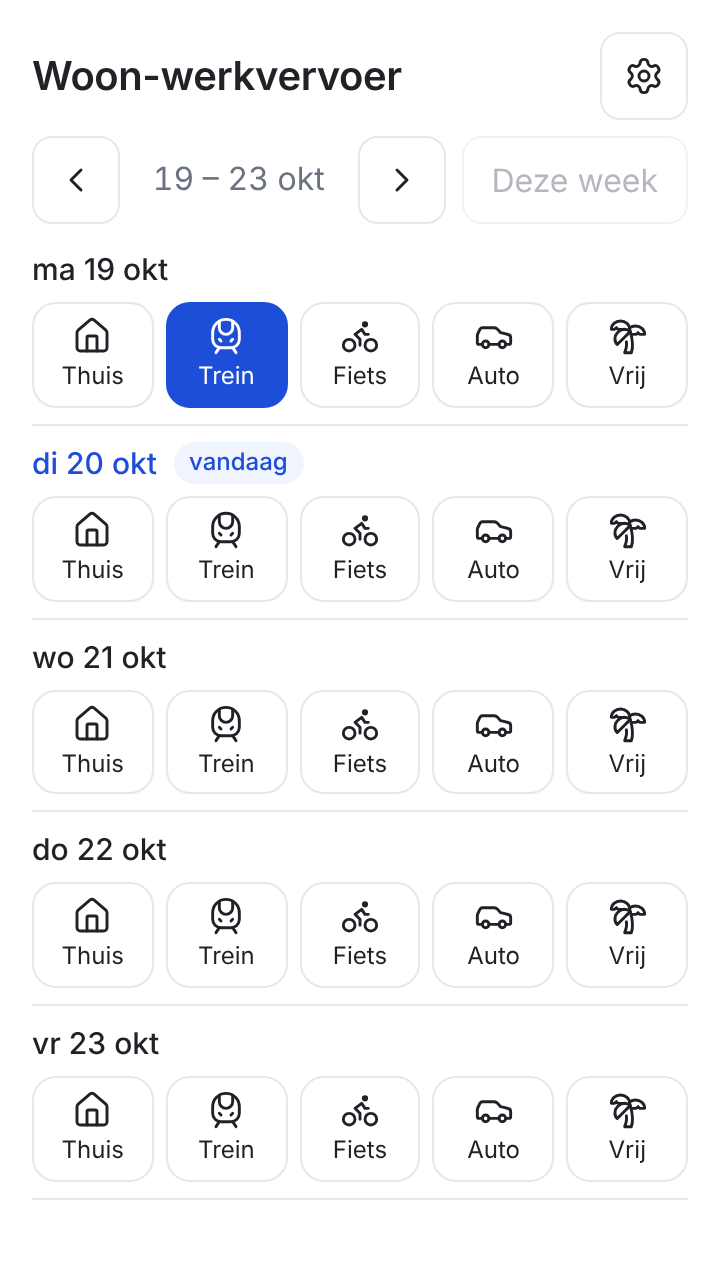
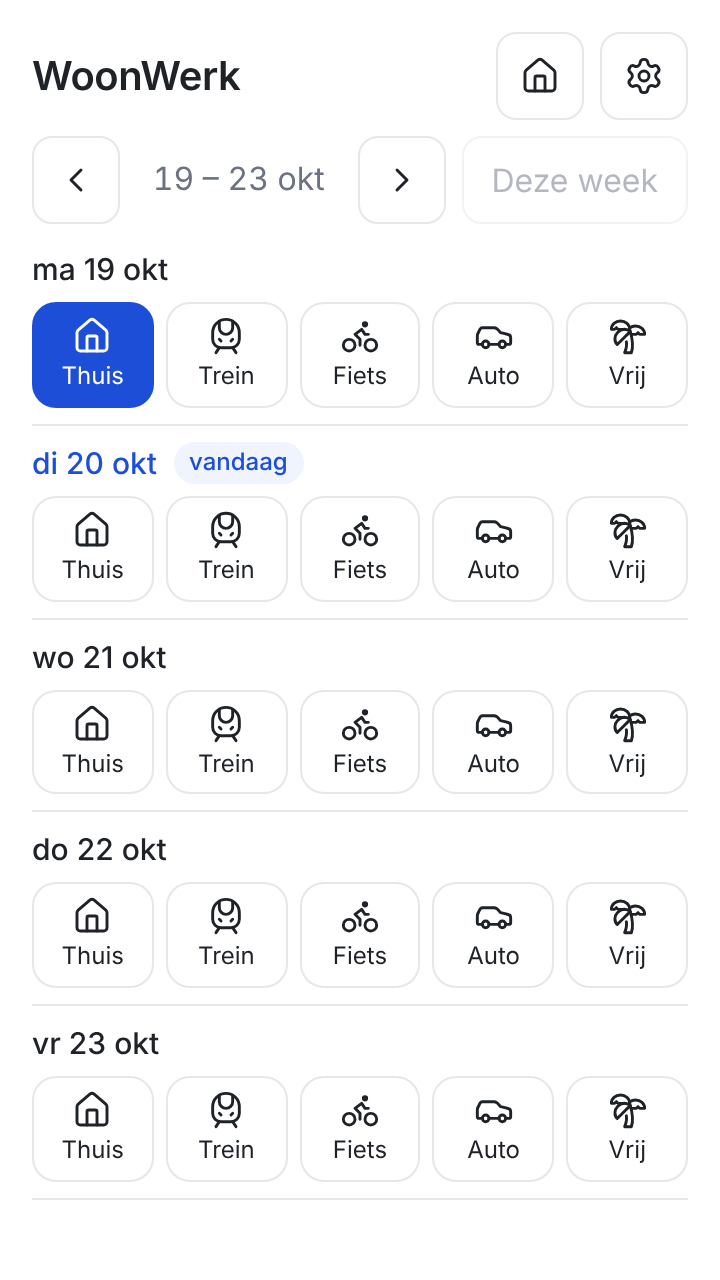
Overzicht thuiswerkvergoeding (SPEC v1.2)
Nieuwe knop met het thuis-icoon opent een overzicht van alle thuisdagen
van precies 3 maanden geleden tot en met vandaag, per kalendermaand in
een eigen kolom (AC20).

Claude-Session: https://claude.ai/code/session_01HkgF8UVQLVV5ARiTjKdSa4

Changed region(s): [[0.0306, 0.2188, 0.3972, 0.3438], [0.1833, 0.0312, 0.55, 0.0938], [0.7333, 0.0312, 0.7944, 0.0938]]

diff --git a/src/HomeOffice.test.tsx b/src/HomeOffice.test.tsx
@@ -1,0 +1,76 @@
+import { render, screen, within } from '@testing-library/react'
+import userEvent from '@testing-library/user-event'
+import { afterEach, beforeEach, describe, expect, it, vi } from 'vitest'
+import App from './App'
+import { STORAGE_KEY } from './storage'
+
+// "Vandaag" is dinsdag 20 oktober 2026.
+beforeEach(() => {
+  vi.useFakeTimers({ toFake: ['Date'] })
+  vi.setSystemTime(new Date(2026, 9, 20, 9, 0))
+})
+
+afterEach(() => {
+  vi.useRealTimers()
+})
+
+function column(month: string) {
+  return within(screen.getByRole('region', { name: month }))
+}
+
+describe('AC20: overzicht thuiswerkvergoeding', () => {
+  it('toont de thuisdagen van 20 juli t/m vandaag, per maand in een eigen kolom', async () => {
+    localStorage.setItem(
+      STORAGE_KEY,
+      JSON.stringify({
+        '2026-07-17': 'thuis', // vóór de periode
+        '2026-07-20': 'thuis',
+        '2026-07-31': 'thuis',
+        '2026-08-03': 'thuis',
+        '2026-08-04': 'trein', // andere keuze
+        '2026-08-28': 'thuis',
+        '2026-10-01': 'thuis',
+        '2026-10-20': 'thuis', // vandaag
+        '2026-10-21': 'thuis', // na vandaag
+      }),
+    )
+    const user = userEvent.setup()
+    render(<App />)
+    await user.click(screen.getByRole('button', { name: 'Overzicht thuiswerkvergoeding' }))
+
+    expect(screen.getByRole('heading', { name: 'Overzicht thuiswerkvergoeding' })).toBeInTheDocument()
+    expect(screen.getByLabelText('Thuis')).toBeInTheDocument()
+    expect(screen.getByTestId('vanaf')).toHaveTextContent('20 juli 2026')
+    expect(screen.getByTestId('tot')).toHaveTextContent('20 oktober 2026')
+
+    expect(screen.getAllByRole('region').map((r) => r.getAttribute('aria-label'))).toEqual([
+      'juli',
+      'augustus',
+      'september',
+      'oktober',
+    ])
+    expect(column('juli').getAllByRole('listitem').map((li) => li.textContent)).toEqual(['ma 20', 'vr 31'])
+    expect(column('augustus').getAllByRole('listitem').map((li) => li.textContent)).toEqual(['ma 3', 'vr 28'])
+    expect(column('september').queryAllByRole('listitem')).toHaveLength(0)
+    expect(column('september').getByText('–')).toBeInTheDocument()
+    expect(column('oktober').getAllByRole('listitem').map((li) => li.textContent)).toEqual(['do 1', 'di 20'])
+  })
+
+  it('begint op de laatste dag van de maand als die dag niet bestaat', async () => {
+    vi.setSystemTime(new Date(2026, 4, 31, 9, 0)) // zondag 31 mei 2026
+    const user = userEvent.setup()
+    render(<App />)
+    await user.click(screen.getByRole('button', { name: 'Overzicht thuiswerkvergoeding' }))
+    expect(screen.getByTestId('vanaf')).toHaveTextContent('28 februari 2026')
+    expect(screen.getAllByRole('region')).toHaveLength(4)
+  })
+
+  it('gaat met Terug naar dezelfde week', async () => {
+    const user = userEvent.setup()
+    render(<App />)
+    await user.click(screen.getByRole('button', { name: 'Vorige week' }))
+    await user.click(screen.getByRole('button', { name: 'Overzicht thuiswerkvergoeding' }))
+    await user.click(screen.getByRole('button', { name: 'Terug' }))
+    expect(screen.getAllByRole('listitem')[0]).toHaveAccessibleName('maandag 12 oktober')
+  })
+})

diff --git a/src/App.tsx b/src/App.tsx
@@ -1,6 +1,7 @@
 import { useEffect, useRef, useState, type TouchEvent } from 'react'
 import { Bike, Car, ChevronLeft, ChevronRight, House, Settings as SettingsIcon, TrainFront, TreePalm, type LucideIcon } from 'lucide-react'
 import { dateKey, longLabel, mondayOf, shortLabel, addDays, weekLabel, workdays } from './dates'
+import HomeOffice from './HomeOffice'
 import Settings from './Settings'
 import { MODES, loadRegistrations, saveRegistrations, type Mode, type Registrations } from './storage'
 
@@ -19,7 +20,7 @@ export default function App() {
   const thisMonday = mondayOf(today)
   const [monday, setMonday] = useState(thisMonday)
   const [registrations, setRegistrations] = useState<Registrations>(loadRegistrations)
-  const [showSettings, setShowSettings] = useState(false)
+  const [screen, setScreen] = useState<'week' | 'settings' | 'thuis'>('week')
 
   useEffect(() => {
     saveRegistrations(registrations)
@@ -71,28 +72,42 @@ export default function App() {
     })
   }
 
-  if (showSettings) {
+  if (screen === 'settings') {
     return (
       <Settings
         registrations={registrations}
         onRestore={setRegistrations}
-        onClose={() => setShowSettings(false)}
+        onClose={() => setScreen('week')}
       />
     )
+  }
+
+  if (screen === 'thuis') {
+    return <HomeOffice registrations={registrations} today={today} onClose={() => setScreen('week')} />
   }
 
   return (
     <main className="app" onTouchStart={handleTouchStart} onTouchEnd={handleTouchEnd}>
       <header className="header">
         <h1>WoonWerk</h1>
-        <button
-          type="button"
-          className="icon-button settings-button"
-          aria-label="Instellingen en backup"
-          onClick={() => setShowSettings(true)}
-        >
-          <SettingsIcon size={20} strokeWidth={1.75} aria-hidden />
-        </button>
+        <div className="header-actions">
+          <button
+            type="button"
+            className="icon-button"
+            aria-label="Overzicht thuiswerkvergoeding"
+            onClick={() => setScreen('thuis')}
+          >
+            <House size={20} strokeWidth={1.75} aria-hidden />
+          </button>
+          <button
+            type="button"
+            className="icon-button"
+            aria-label="Instellingen en backup"
+            onClick={() => setScreen('settings')}
+          >
+            <SettingsIcon size={20} strokeWidth={1.75} aria-hidden />
+          </button>
+        </div>
         <nav className="week-nav" aria-label="Week kiezen">
           <button
             type="button"

diff --git a/src/HomeOffice.tsx b/src/HomeOffice.tsx
@@ -1,0 +1,65 @@
+import { ArrowLeft, House } from 'lucide-react'
+import { addDays, compactDay, dateKey, fullDate, monthName, overviewPeriod } from './dates'
+import type { Registrations } from './storage'
+
+interface Props {
+  registrations: Registrations
+  today: Date
+  onClose: () => void
+}
+
+export default function HomeOffice({ registrations, today, onClose }: Props) {
+  const { start, end, months } = overviewPeriod(today)
+
+  // Alle dagen in de periode met Thuis, gegroepeerd per kalendermaand.
+  const columns = months.map((month) => {
+    const days: Date[] = []
+    const first = month < start ? start : month
+    for (let d = first; d.getMonth() === month.getMonth() && d <= end; d = addDays(d, 1)) {
+      if (registrations[dateKey(d)] === 'thuis') days.push(d)
+    }
+    return { month, days }
+  })
+
+  return (
+    <main className="app">
+      <header className="settings-header">
+        <button type="button" className="icon-button" aria-label="Terug" onClick={onClose}>
+          <ArrowLeft size={20} strokeWidth={1.75} aria-hidden />
+        </button>
+        <h1 className="wrap">Overzicht thuiswerkvergoeding</h1>
+      </header>
+
+      <div className="period">
+        <House size={28} strokeWidth={1.75} aria-label="Thuis" />
+        <dl>
+          <div>
+            <dt>Vanaf</dt>
+            <dd data-testid="vanaf">{fullDate(start)}</dd>
+          </div>
+          <div>
+            <dt>Tot en met</dt>
+            <dd data-testid="tot">{fullDate(end)}</dd>
+          </div>
+        </dl>
+      </div>
+
+      <div className="months">
+        {columns.map(({ month, days }) => (
+          <section key={dateKey(month)} className="month" aria-label={monthName(month)}>
+            <h2>{monthName(month)}</h2>
+            {days.length > 0 ? (
+              <ul>
+                {days.map((d) => (
+                  <li key={dateKey(d)}>{compactDay(d)}</li>
+                ))}
+              </ul>
+            ) : (
+              <p className="muted">–</p>
+            )}
+          </section>
+        ))}
+      </div>
+    </main>
+  )
+}

diff --git a/src/dates.ts b/src/dates.ts
@@ -50,3 +50,34 @@ export function weekLabel(monday: Date, currentYear: number): string {
   const year = friday.getFullYear() === currentYear && monday.getFullYear() === currentYear ? '' : ` ${friday.getFullYear()}`
   return `${start} – ${friday.getDate()} ${MAANDEN_KORT[friday.getMonth()]}${year}`
 }
+
+/** Bijv. "1 augustus 2026". */
+export function fullDate(date: Date): string {
+  return `${date.getDate()} ${MAANDEN_LANG[date.getMonth()]} ${date.getFullYear()}`
+}
+
+/** Bijv. "ma 3". */
+export function compactDay(date: Date): string {
+  return `${WEEKDAGEN_KORT[date.getDay()]} ${date.getDate()}`
+}
+
+/** Bijv. "augustus". */
+export function monthName(date: Date): string {
+  return MAANDEN_LANG[date.getMonth()]
+}
+
+/**
+ * De periode van het thuiswerkoverzicht: van precies `monthsBack` maanden geleden
+ * tot en met vandaag, plus de kalendermaanden die daarin vallen. Bestaat de dag
+ * niet in die maand (bijv. 31 februari), dan wordt het de laatste dag van die maand.
+ */
+export function overviewPeriod(today: Date, monthsBack = 3): { start: Date; end: Date; months: Date[] } {
+  const end = new Date(today.getFullYear(), today.getMonth(), today.getDate())
+  const lastDay = new Date(today.getFullYear(), today.getMonth() - monthsBack + 1, 0).getDate()
+  const start = new Date(today.getFullYear(), today.getMonth() - monthsBack, Math.min(today.getDate(), lastDay))
+  const months = Array.from(
+    { length: monthsBack + 1 },
+    (_, i) => new Date(start.getFullYear(), start.getMonth() + i, 1),
+  )
+  return { start, end, months }
+}

diff --git a/src/index.css b/src/index.css
@@ -59,7 +59,9 @@ h1 {
   gap: 8px;
 }
 
-.settings-button {
+.header-actions {
+  display: flex;
+  gap: 8px;
   justify-self: end;
 }
 
@@ -220,4 +222,60 @@ h2 {
 
 .message.error {
   color: #b42318;
+}
+
+h1.wrap {
+  white-space: normal;
+  line-height: 1.2;
+}
+
+.period {
+  display: flex;
+  align-items: center;
+  gap: 16px;
+  padding: 12px 0 16px;
+  border-bottom: 1px solid var(--line);
+  color: var(--accent);
+}
+
+.period dl {
+  display: grid;
+  gap: 2px;
+  margin: 0;
+  color: var(--text);
+}
+
+.period dl div {
+  display: flex;
+  gap: 8px;
+}
+
+.period dt {
+  min-width: 5.5em;
+  color: var(--muted);
+}
+
+.period dd {
+  margin: 0;
+}
+
+.months {
+  display: grid;
+  grid-template-columns: repeat(4, 1fr);
+  gap: 6px;
+  padding-top: 12px;
+}
+
+.month h2 {
+  margin: 0 0 6px;
+  font-size: 0.8125rem;
+}
+
+.month ul {
+  list-style: none;
+  margin: 0;
+  padding: 0;
+  font-size: 0.875rem;
+  line-height: 1.5;
+  font-variant-numeric: tabular-nums;
 }

diff --git a/SPEC.md b/SPEC.md
@@ -1,7 +1,7 @@
 # Specificatie: Woon-werkvervoer registreren
 
 Status: **goedgekeurd door Greco op 20 oktober 2026**
-Versie: 1.1 (20 oktober 2026): app heet WoonWerk, op verzoek van Greco
+Versie: 1.2 (20 oktober 2026): overzicht thuiswerkvergoeding, op verzoek van Greco
 
 ## 1. Doel
 
@@ -35,6 +35,7 @@ Eén persoon (Greco) die de app op zijn telefoon gebruikt, via een snelkoppeling
 | F10 | Backupmap kiezen | In de instellingen kies je met de mappenkiezer van je telefoon een map waar backups worden opgeslagen en waaruit ze worden ingelezen. De app onthoudt die map en toont de naam. |
 | F11 | Backup maken | De knop "Backup maken" slaat alle ingevulde dagen op als één bestand in de backupmap, met de datum in de naam, bijvoorbeeld `woon-werkvervoer-backup-2026-10-20.json`. Is er geen map gekozen of kan de telefoon geen map onthouden, dan komt het bestand in de map Downloads. |
 | F12 | Backup inlezen | De knop "Backup inlezen" opent de bestandskiezer in de backupmap, zodat je een specifieke backup kiest. Na een bevestiging vervangt de inhoud van de backup alle huidige keuzes. Een bestand dat geen geldige backup is, wordt geweigerd met een duidelijke melding en verandert niets. |
+| F15 | Overzicht thuiswerkvergoeding | Een knop met het thuis-icoon rechtsboven, naast het tandwiel, opent het scherm "Overzicht thuiswerkvergoeding". Het toont standaard alle dagen waarop Thuis is gekozen, van precies 3 maanden geleden tot en met vandaag (op 20 oktober dus vanaf 20 juli; bestaat die dag niet, zoals 31 februari, dan de laatste dag van die maand). Bovenaan staan het thuis-icoon, de vanaf-datum en de tot-datum. Daaronder staan heel compact de datums in kolommen: elke kalendermaand een eigen kolom (meestal 4, omdat de periode in een maand halverwege begint; Greco koos hiervoor boven precies 3 kolommen), de oudste maand links, met de maandnaam erboven. Een maand zonder thuisdagen toont een streepje. "Terug" brengt je weer naar de week. |
 | F8 | Installeren | De app is een progressive web app (PWA): Chrome biedt "App installeren" aan, waarna de app als gewone app tussen je apps staat en schermvullend opent, zonder adresbalk. |
 | F13 | Offline gebruiken | Na de eerste keer openen werkt de app ook zonder internetverbinding: openen, kiezen, bladeren, instellingen en backups. |
 | F14 | Updates | Staat er een nieuwe versie online, dan haalt de app die op de achtergrond op zodra er internet is. De nieuwe versie is actief de volgende keer dat je de app opent. |
@@ -60,6 +61,7 @@ Deze criteria worden ook als automatische tests in de code opgenomen.
 - **AC14 (F10)** Na het kiezen van een map toont de instelling de naam van die map, ook nadat de app opnieuw is geopend.
 - **AC15 (F11)** "Backup maken" schrijft een bestand `woon-werkvervoer-backup-JJJJ-MM-DD.json` met alle ingevulde dagen in de gekozen map, en meldt waar het staat. Zonder gekozen map wordt hetzelfde bestand gedownload.
 - **AC16 (F12)** Na het inlezen van een backup toont de app precies de keuzes uit dat bestand; keuzes die niet in de backup staan zijn weg. Bij een ongeldig bestand verschijnt een melding en blijven de huidige keuzes ongewijzigd. Als ik de bevestiging annuleer, verandert er niets.
+- **AC20 (F15)** Op dinsdag 20 oktober 2026 toont het overzicht de periode van 20 juli 2026 tot en met 20 oktober 2026, met de kolommen juli, augustus, september en oktober. Alleen dagen met Thuis staan erin, in de kolom van hun eigen maand en op volgorde; dagen met een andere keuze, dagen vóór 20 juli en dagen na vandaag staan er niet in. Op 31 mei begint de periode op 28 februari (of 29 in een schrikkeljaar).
 - **AC17 (F13)** Als de app één keer met internet is geopend, opent hij daarna ook zonder internetverbinding volledig, en kun je keuzes maken die bewaard blijven.
 - **AC18 (F8)** De app heeft een geldig app-manifest en een service worker, zodat Chrome hem als installeerbare app herkent.
 - **AC12 (ontwerp)** Op een scherm van 360 bij 640 pixels (een Samsung S25 is 360 pixels breed; 640 pixels hoog laat ruimte voor adresbalk en systeembalken) zijn de titel, de weeknavigatie en alle vijf dagen met hun knoppen volledig te zien zonder te scrollen.
@@ -71,7 +73,7 @@ Strak, modern en minimalistisch. Geen toeters en bellen.
 - **Rustig**: witte achtergrond, donkergrijze tekst, één accentkleur (diep blauw) voor de gekozen knop en de markering van vandaag. Geen verlopen, schaduwen of animaties, alleen een subtiele overgang bij klikken.
 - **Typografie**: het standaard systeemlettertype van het apparaat (zoals San Francisco of Segoe UI), in twee groottes: een titel en normale tekst.
 - **Knoppen**: een strak lijnicoon met de naam eronder, zodat elk vervoermiddel direct herkenbaar is. Dunne rand en afgeronde hoeken. De gekozen knop is gevuld met de accentkleur en witte tekst.
-- **Indeling**: smalle kolom gecentreerd op het scherm, compact in de hoogte zodat de hele week in één scherm past, dunne lijnen als scheiding tussen de dagen. Bovenaan staan de titel met rechts de tandwielknop, en daaronder de weeknavigatie met "Deze week". De week staat er kort, bijv. "19 – 23 okt"; het jaartal verschijnt alleen bij een week in een ander jaar.
+- **Indeling**: smalle kolom gecentreerd op het scherm, compact in de hoogte zodat de hele week in één scherm past, dunne lijnen als scheiding tussen de dagen. Bovenaan staan de titel met rechts de knoppen voor het thuiswerkoverzicht en de instellingen, en daaronder de weeknavigatie met "Deze week". De week staat er kort, bijv. "19 – 23 okt"; het jaartal verschijnt alleen bij een week in een ander jaar.
 - **Mobiel eerst**: ontworpen voor een telefoonscherm, met grote knoppen voor je duim; de vijf knoppen passen naast elkaar. Op een groter scherm blijft het een smalle kolom.
 - **Geen extra's**: geen logo, geen afbeeldingen, geen pop-ups. Uitzonderingen: de bevestigingsvraag voor het inlezen van een backup (die vervangt immers alles), en de mappen- en bestandskiezer van de telefoon zelf. Meldingen over backups verschijnen als korte regel tekst in het instellingenscherm.
 

diff --git a/README.md b/README.md
@@ -40,11 +40,12 @@ Je keuzes worden alleen op die telefoon bewaard. Maak daarom af en toe een backu
 
 - `src/App.tsx`: het scherm met de week, de knoppen en het swipen tussen weken
 - `src/Settings.tsx`: het scherm Instellingen en backup
+- `src/HomeOffice.tsx`: het overzicht thuiswerkvergoeding
 - `src/backup.ts`: het backupbestand maken en controleren
 - `src/files.ts` en `src/folderStore.ts`: de backupmap kiezen, onthouden en bestanden schrijven
 - `src/dates.ts`: rekenen met datums (maandag van de week, Nederlandse namen)
 - `src/storage.ts`: bewaren en ophalen van keuzes in de browser
 - `src/index.css`: de vormgeving
-- `src/App.test.tsx` en `src/Backup.test.tsx`: de tests, één groep per acceptatiecriterium
+- `src/App.test.tsx`, `src/Backup.test.tsx` en `src/HomeOffice.test.tsx`: de tests, één groep per acceptatiecriterium
 - `public/`: app-icoon en manifest voor het installeren
 - `vite.config.ts`: bouwinstellingen, inclusief de service worker voor offline gebruik
